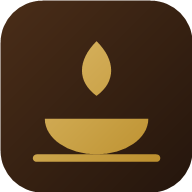
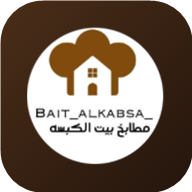
أيقونة التطبيق صارت شعار المطبخ الحقيقي
كانت رسماً برمجيّاً لصحنٍ ذهبيّ وحبّة أرز — شكلٌ لا وجود له في
شعار المطبخ. فيرى الزبون في رأس الموقع بيتاً بين شجرتين، ويرى
على شاشة جواله صحناً لا يعرفه.

صارت كلّها من images/logo.png نفسه: أيقونات أندرويد الخمس
بكثافاتها، وشاشات البداية الإحدى عشرة، وأيقونات الموقع، وأيقونة
جوجل بلاي — من سكربتٍ واحد، فلا تفترق نسختان لعلامةٍ واحدة.

الشعار مئة وواحد وعشرون بكسلاً فقط، فكُبّر بـ HighQualityBicubic:
البيت والشجرتان والاسم كلّها مقروءة في ٥١٢، وهو ما يظهر على
الشاشة فعلاً.

وحُذف icons/icon.svg — كان يرسم الصحن القديم متّجهاً، والشعار
صورةٌ لا رسمة، فـ«SVG» يحوي PNG ليس أحدَّ من PNG. صارت الصفحة
والبيان وعامل الخدمة ولوحة التحكّم تشير كلّها إلى icon-192.

وأُضيفت icons/play-store-512.png — أيقونة المتجر التي يطلبها
جوجل بلاي ٥١٢×٥١٢ بالضبط.

سبعة فحوص تحرسها: أنّ كل أيقونة مذكورة في البيان أو عامل الخدمة
أو الصفحة موجودةٌ على القرص فعلاً — فأيقونةٌ ناقصة لا تسقط في
اختبار، بل تظهر فراغاً للزبون ويرفضها المتجر عند الرفع.

diff --git a/index.html b/index.html
@@ -16,7 +16,9 @@
   <link rel="preconnect" href="https://fonts.gstatic.com" crossorigin />
   <link href="https://fonts.googleapis.com/css2?family=Tajawal:wght@300;400;500;700;800&family=Amiri:wght@400;700&display=swap" rel="stylesheet" />
   <link rel="stylesheet" href="css/styles.css" />
-  <link rel="icon" href="icons/icon.svg" type="image/svg+xml" />
+  <!-- الأيقونات كلّها من images/logo.png عبر app/make-android-assets.ps1 —
+       كان هنا رسمٌ متّجه لصحنٍ وحبّة أرز لا وجود لهما في شعار المطبخ. -->
+  <link rel="icon" href="icons/icon-192.png" type="image/png" />
   <link rel="apple-touch-icon" href="icons/icon-192.png" />
 
   <!-- إعدادات تطبيق الجوال (PWA) -->

diff --git a/sw.js b/sw.js
@@ -4,7 +4,7 @@
    ملاحظة: عند أي تعديل على ملفات الموقع، ارفع رقم CACHE_VERSION.
    ========================================================================== */
 
-var CACHE_VERSION = 'bak-v43';
+var CACHE_VERSION = 'bak-v44';
 var PRECACHE = [
   './',
   './index.html',
@@ -15,7 +15,6 @@ var PRECACHE = [
   './js/gallery-data.js',
   './js/main.js',
   './manifest.webmanifest',
-  './icons/icon.svg',
   './icons/icon-192.png',
   './icons/icon-512.png'
 ];

diff --git a/admin.html b/admin.html
@@ -10,7 +10,7 @@
 
   <title>لوحة تحكّم مطابخ بيت الكبسة</title>
 
-  <link rel="icon" href="icons/icon.svg" type="image/svg+xml" />
+  <link rel="icon" href="icons/icon-192.png" type="image/png" />
   <link rel="preconnect" href="https://fonts.googleapis.com" />
   <link rel="preconnect" href="https://fonts.gstatic.com" crossorigin />
   <link href="https://fonts.googleapis.com/css2?family=Tajawal:wght@400;500;700&display=swap" rel="stylesheet" />
